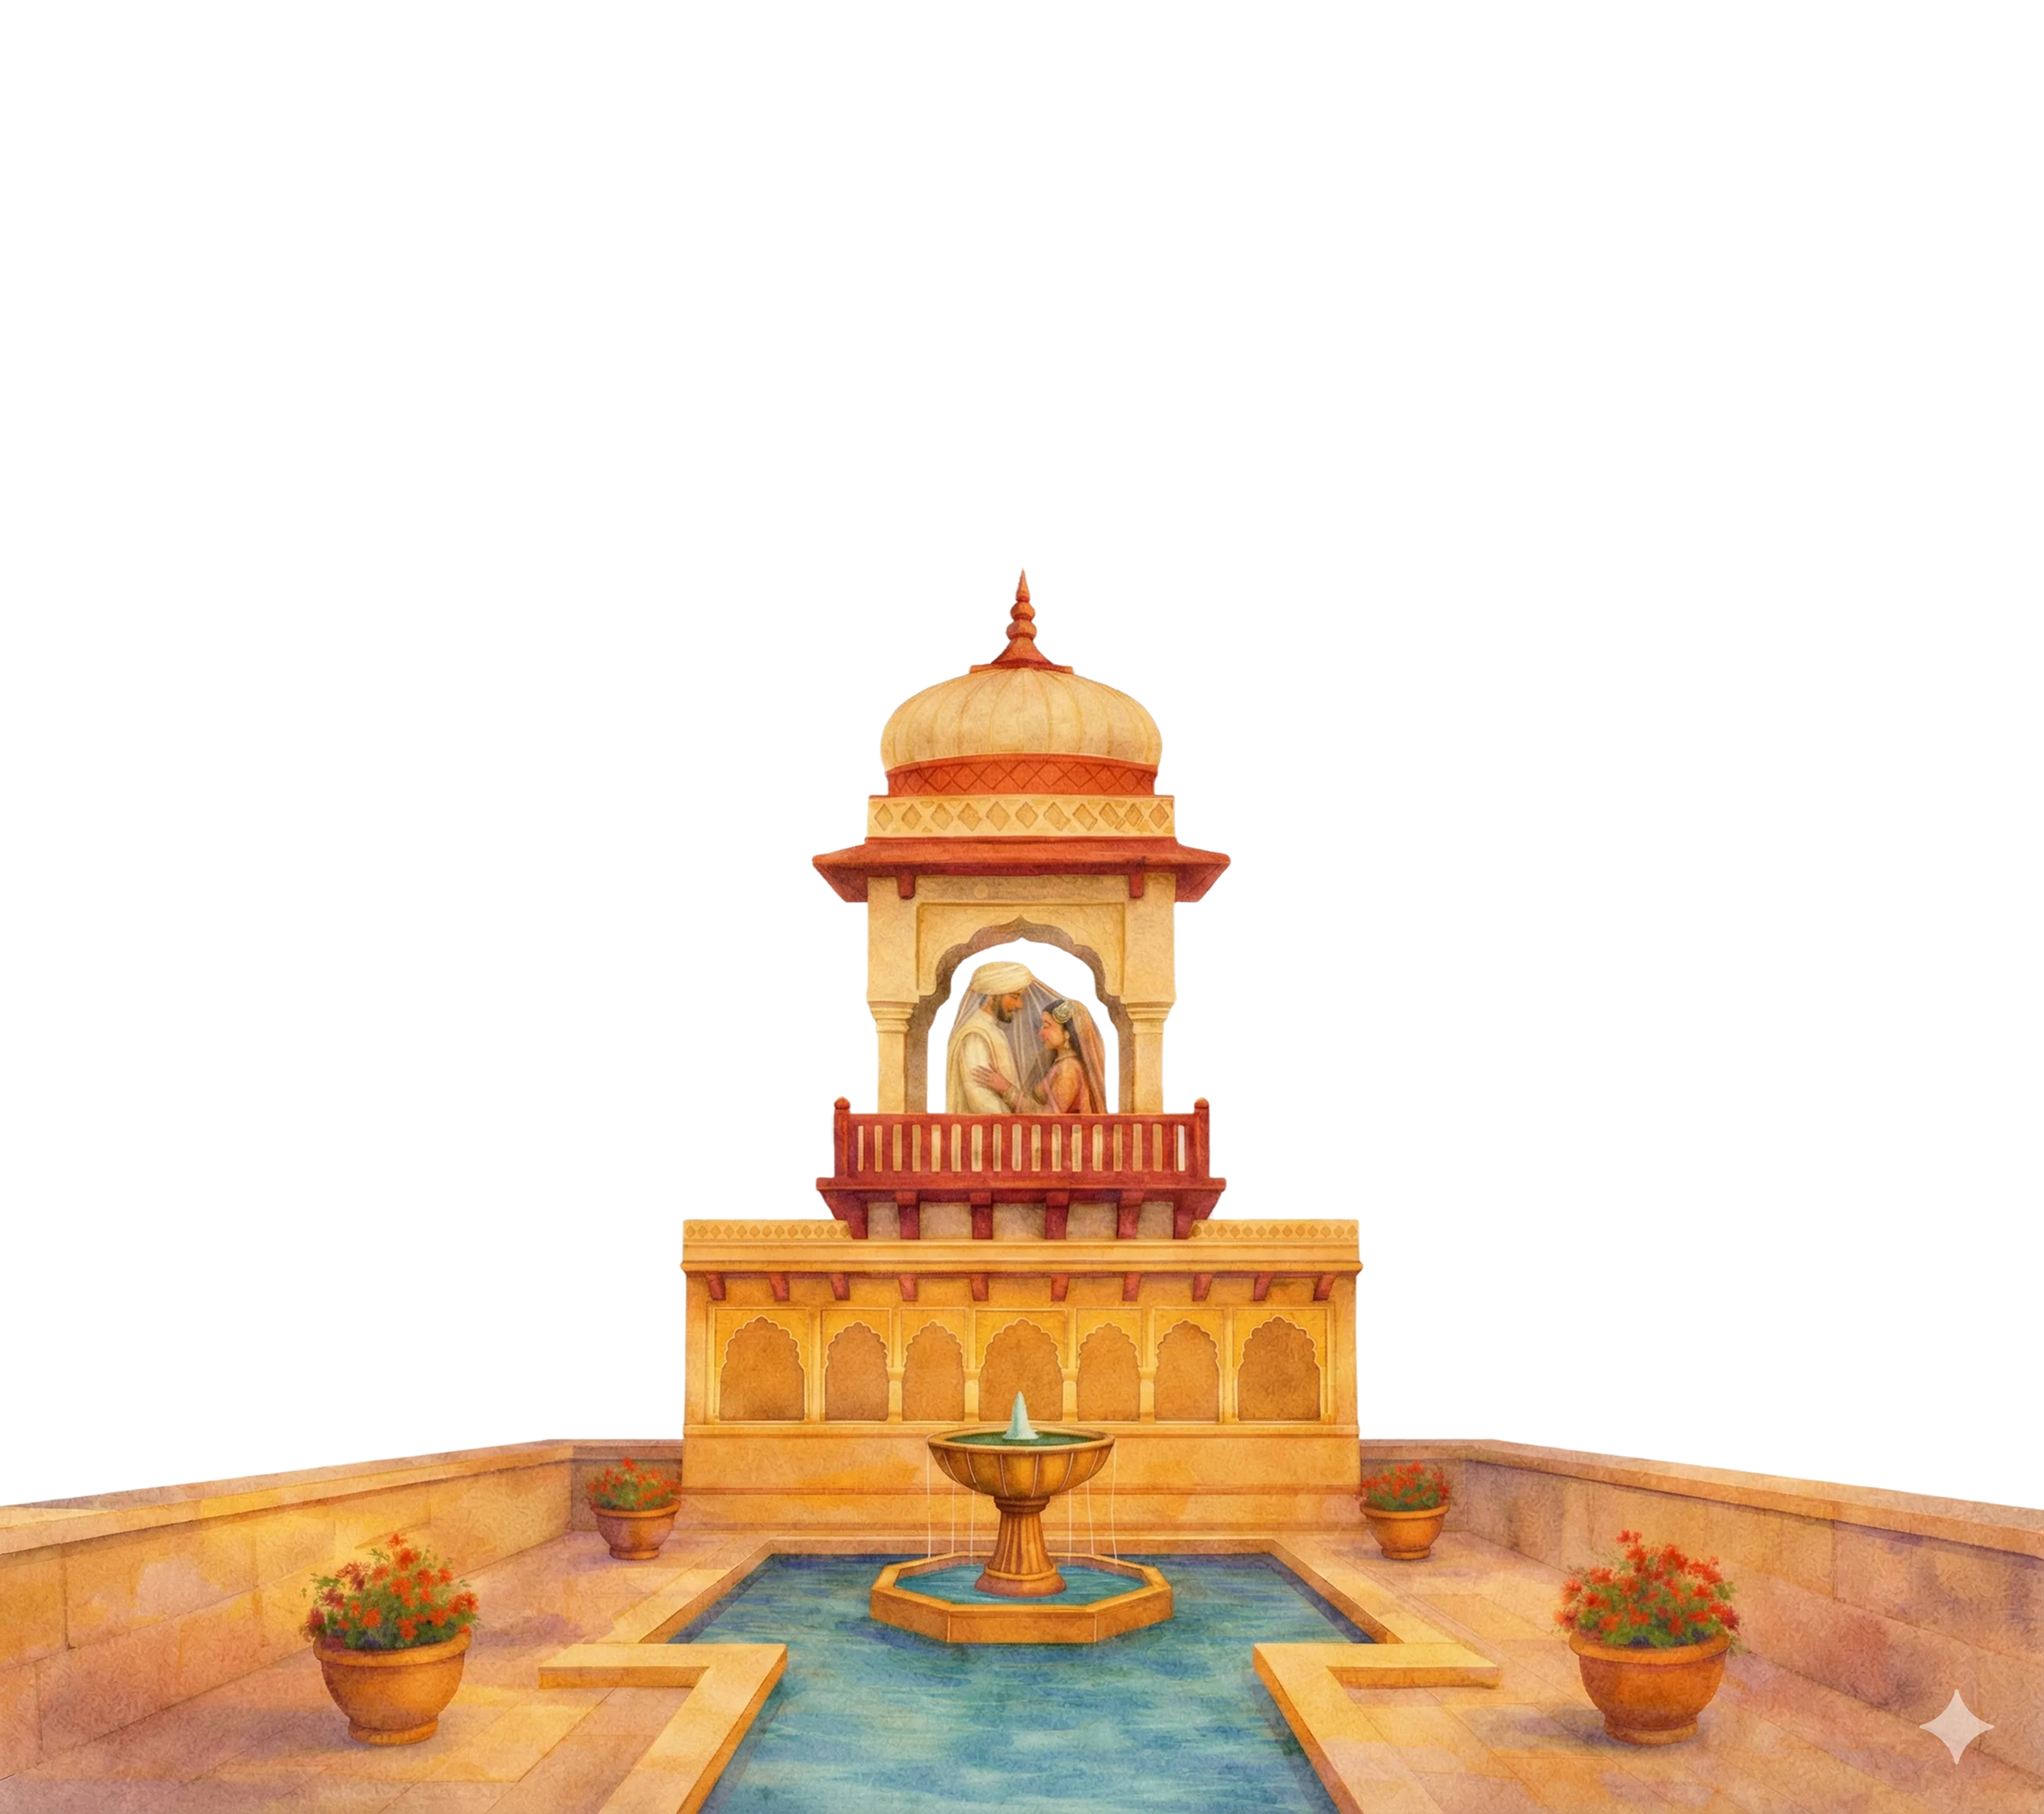
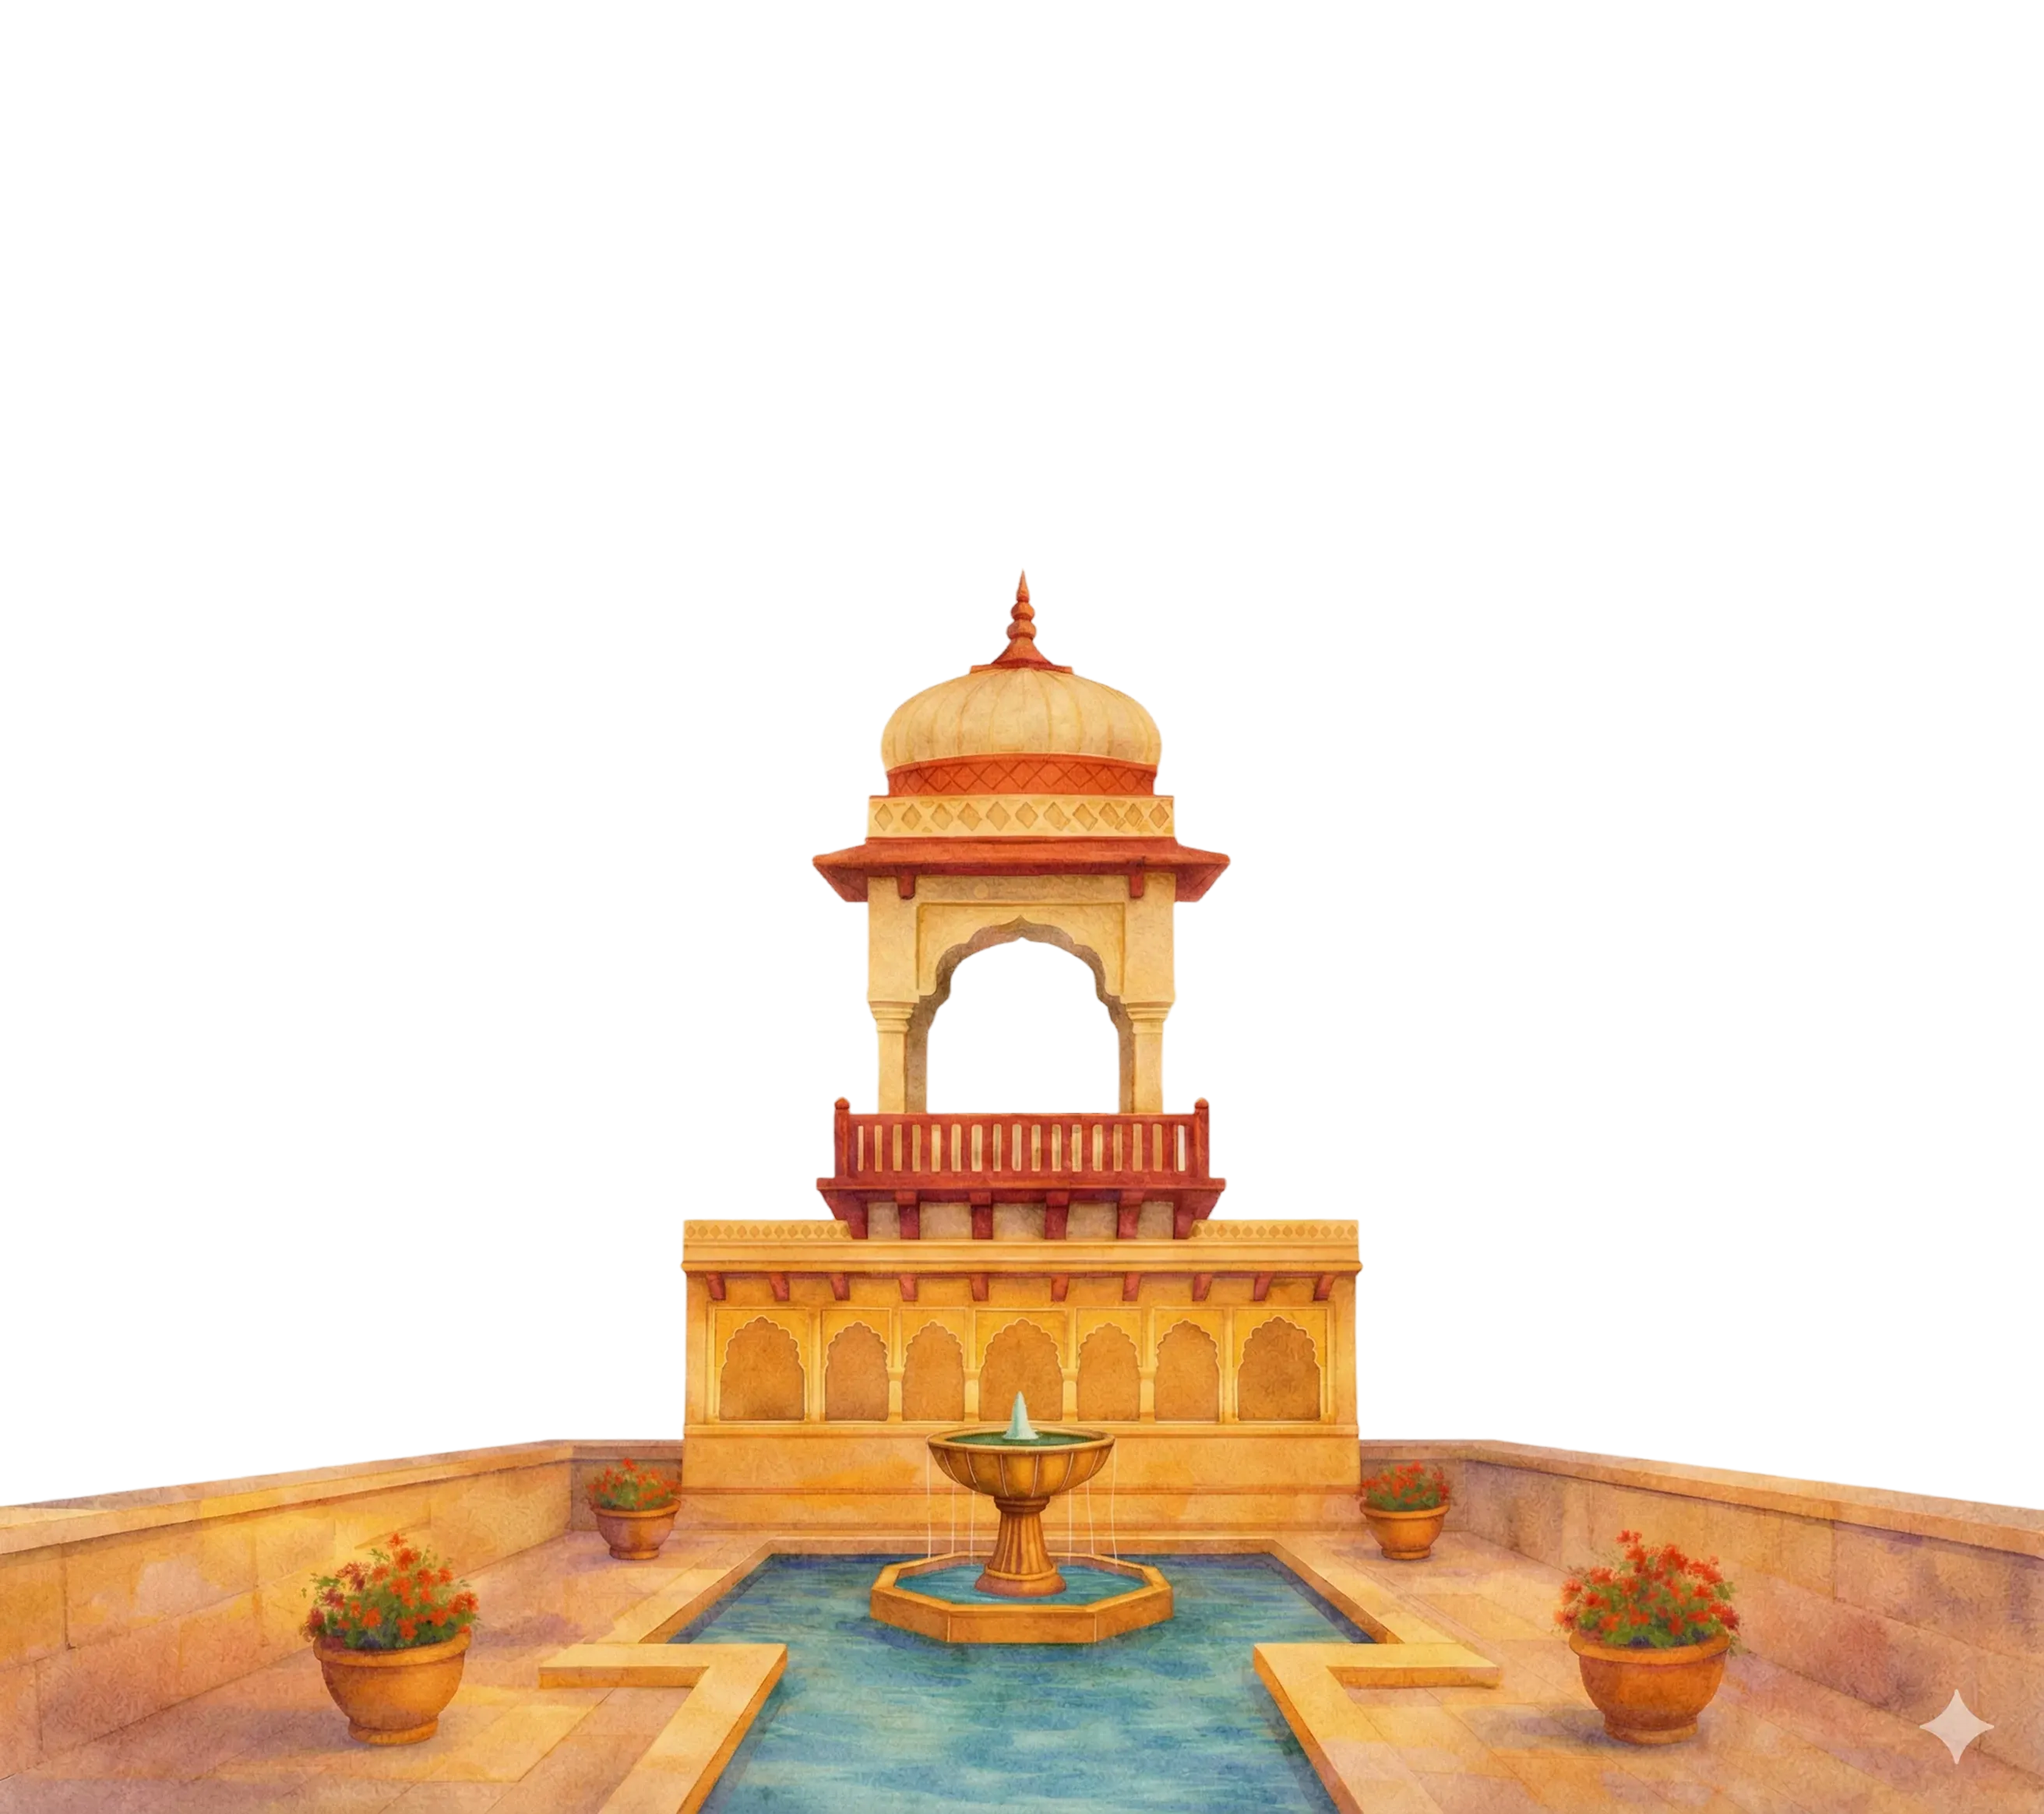
Image Updates

Changed region(s): [[0.4375, 0.5255, 0.5625, 0.6183]]

diff --git a/wedding/index.html b/wedding/index.html
@@ -57,9 +57,10 @@
         left: 0;
         width: 100%;
         height: 100%;
-        background-image: url("images/building2.png");
+        background-image: url("images/building4.png");
         background-size: auto;
-        background-position: center;
+        background-repeat: no-repeat;
+        background-position: bottom center;
         z-index: 1;
       }
 
@@ -473,9 +474,9 @@
       /* Footer */
       .footer {
         padding: 80px 20px 40px;
-        background-image: url("https://framerusercontent.com/images/ySQ0SbzHWfVo1ClVjS303cCa9E.png");
+        background-image: url("images/foooter-bg.png");
         background-size: cover;
-        background-position: center;
+        background-position: top;
         height: 100vh;
       }
 
@@ -572,7 +573,7 @@
 
       <div class="ganesha-container animate-on-scroll">
         <img
-          src="https://framerusercontent.com/images/tjsmDC8g305SmMs98B3ABqR5QE.png?width=279&height=296"
+          src="images/ganesh.svg"
           alt="Ganesha"
           class="ganesha"
         />
@@ -745,7 +746,7 @@
 
         <p style="font-size: 24px;">Contact us at: +91 9041764098</p>
 
-        <br><br>
+        <br>
 
         <p class="copyright">ॐ</p>
       </div>
